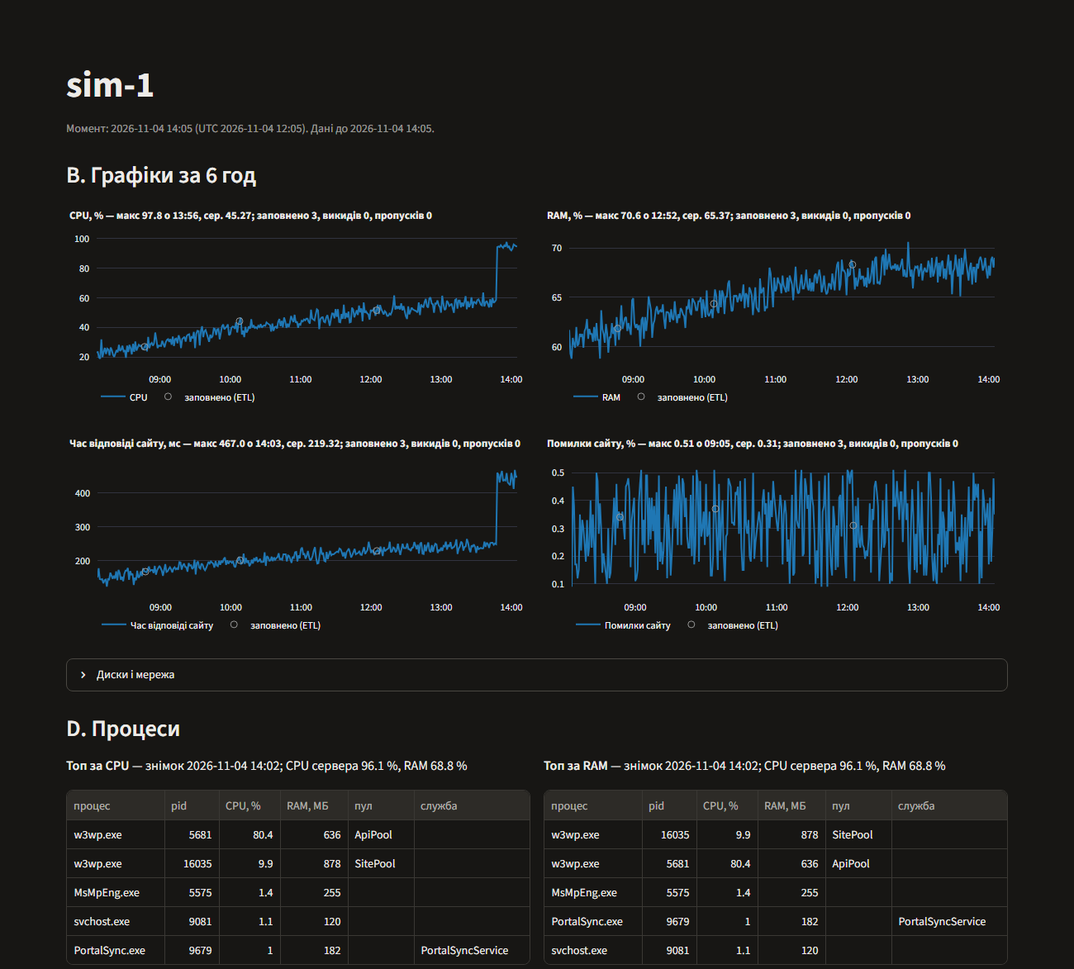
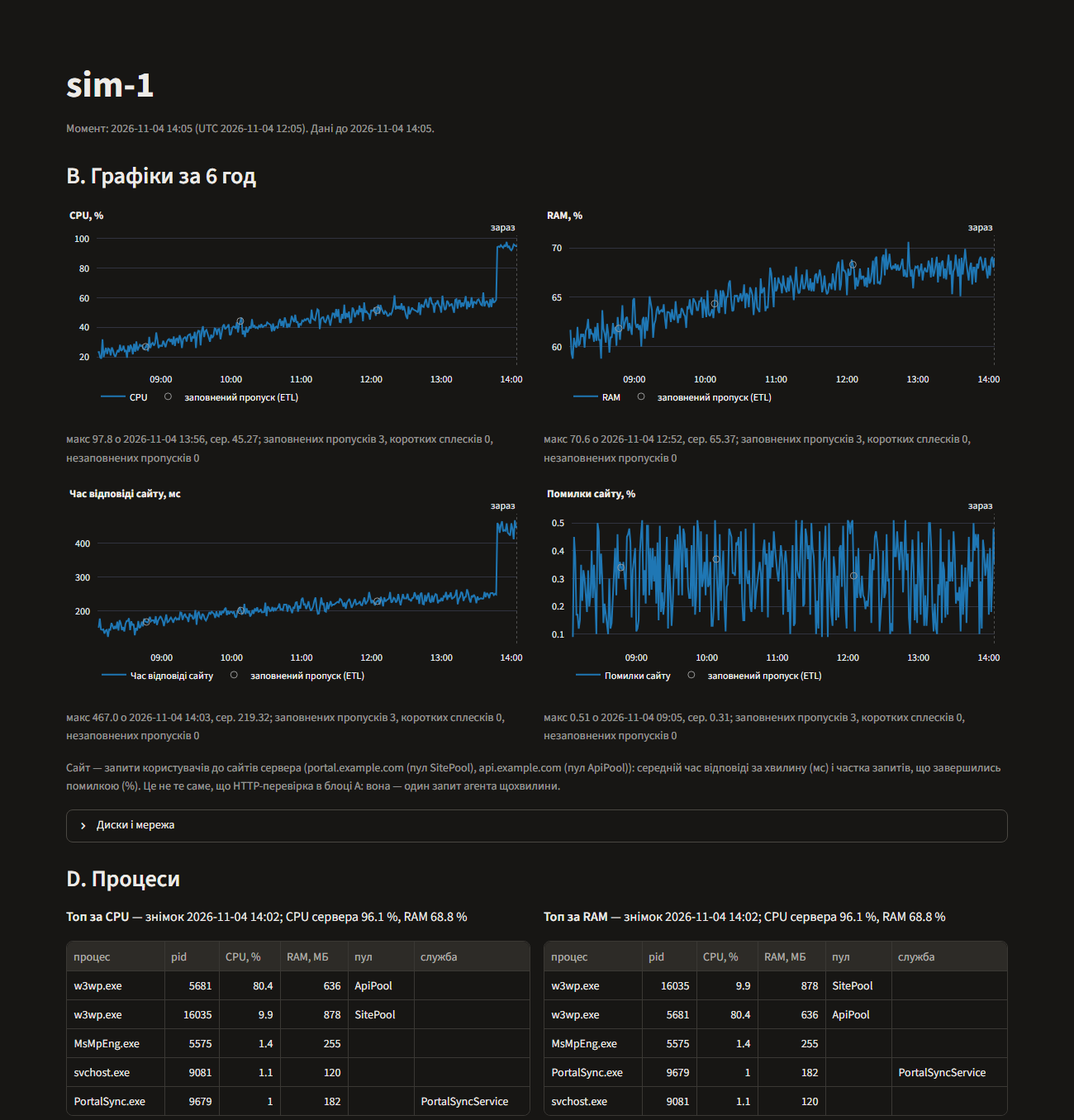
Етап 0 закрито: блок C (факт після «зараз», пояснення «мало даних»), підписи, скриншоти
- core/tools.py: trend.points, trend.min_points, trend.from_reason, history_days
- web/app.py: лінія «насправді» для моменту в історії; тренд обрізано на 100 %;
  при stale прогноз не малюється; звідки прогноз і чому «мало даних»;
  блок E за вибраним вікном; історія = history_days; підписи сайту і перевірок;
  легенди ETL «короткий сплеск», «заповнений пропуск»
- тести: поля прогнозу, лінії графіка, перша година історії (усього 59)
- скриншоти 5 перевірок + після кінця даних + «мало даних» + блок G
- progress.md (відомі проблеми, пропуски), milestones.md (етап 4 — кандидати),
  decisions.md (підсумок етапу 0)

diff --git a/web/app.py b/web/app.py
@@ -24,7 +24,7 @@ from core import tools  # noqa: E402
 
 WINDOWS = {"6 год": 6, "24 год": 24, "7 днів": 168}
 DASH_POINTS = 1500            # точок на графік дашборду (для LLM — 50, за замовчуванням)
-DISK_HISTORY_DAYS = 14        # скільки історії диска показувати біля прогнозу
+DISK_HISTORY_DAYS = 14        # запасне значення, якщо прогноз не повернув history_days (помилка)
 LOCAL_FMT = "%Y-%m-%d %H:%M"
 
 st.set_page_config(page_title="Сервер — асистент чергового", layout="wide")
@@ -211,6 +211,10 @@ with right:
     chk = pd.DataFrame(rows)
     if not chk.empty:
         st.dataframe(red_rows(chk, chk["ok"] != "так"), hide_index=True)
+        st.caption("http — щохвилинний запит агента до сторінки перевірки сайту: код і час відповіді "
+                   "(не пройшла — код ≠ 200 або довше 2 с); адреса в даних не зберігається, лише код. "
+                   "cert — днів до кінця сертифіката сайту; backup — вік останнього успішного бекапу, год; "
+                   "sql_port — чи відкривається порт SQL Server.")
 show_notes(status)
 
 # ---------------------------------------------------------------------------
@@ -243,10 +247,10 @@ def metric_chart(metric: str, title: str, height: int = 260):
                     line=dict(width=2, color="#1f77b4"))
     if r["imputed_points"]:
         fig.add_scatter(x=ts(r["imputed_points"]), y=[p[1] for p in r["imputed_points"]], mode="markers",
-                        name="заповнено (ETL)", marker=dict(size=8, color="#999999", symbol="circle-open"))
+                        name="заповнений пропуск (ETL)", marker=dict(size=8, color="#999999", symbol="circle-open"))
     if r["outlier_points"]:
         fig.add_scatter(x=ts(r["outlier_points"]), y=[p[1] for p in r["outlier_points"]], mode="markers",
-                        name="викид (ETL)", marker=dict(size=9, color="#d62728"))
+                        name="короткий сплеск (позначка ETL)", marker=dict(size=9, color="#d62728"))
     step = f", середнє по {r['step_min']} хв" if r["step_min"] > 1 else ""
     fig.update_layout(title=f"{title}, {r['unit']}{step}",
                       height=height, margin=dict(l=10, r=10, t=40, b=10), hovermode="x unified",
@@ -254,7 +258,8 @@ def metric_chart(metric: str, title: str, height: int = 260):
     st.plotly_chart(fig)
     # статистика — під графіком (у заголовку довгий рядок обрізався)
     st.caption(f"макс {fmt(r['max']['value'])} о {r['max']['ts_local']}, сер. {fmt(r['mean'])}; "
-               f"заповнено {r['imputed']}, викидів {r['outliers']}, пропусків {r['gaps_total']}")
+               f"заповнених пропусків {r['imputed']}, коротких сплесків {r['outliers']}, "
+               f"незаповнених пропусків {r['gaps_total']}")
     show_notes(r)
 
 
@@ -269,6 +274,10 @@ if "app_response_ms" in m:
         metric_chart("app_response_ms", "Час відповіді сайту")
     with c2:
         metric_chart("app_error_pct", "Помилки сайту")
+    sites = ", ".join(f"{x['site']} (пул {x['app_pool']})" for x in status["sites"])
+    st.caption(f"Сайт — запити користувачів до сайтів сервера ({sites}): середній час відповіді "
+               "за хвилину (мс) і частка запитів, що завершились помилкою (%). Це не те саме, що "
+               "HTTP-перевірка в блоці A: вона — один запит агента щохвилини.")
 with st.expander("Диски і мережа", expanded=EXPAND):
     c1, c2 = st.columns(2)
     for i, d in enumerate(status["disks"]):
@@ -291,7 +300,10 @@ drives = [d["drive"] for d in status["disks"]]
 drive_default = drives.index(params["drive"]) if params.get("drive") in drives else 0
 drive = st.radio("Диск", drives, index=drive_default, horizontal=True)
 fc = call("get_disk_forecast", server=server, drive=drive, now=now, with_line=True)
-disk_start = (now_dt - timedelta(days=DISK_HISTORY_DAYS)).strftime(LOCAL_FMT)
+# історія на графіку — рівно стільки, скільки бачить прогноз (history_days з forecast.yaml)
+history_days = fc.get("history_days", DISK_HISTORY_DAYS)
+disk_start = (now_dt - timedelta(days=history_days)).strftime(LOCAL_FMT)
+st.caption(f"Історія на графіку — {history_days} днів: стільки бачить прогноз.")
 hist = call("get_metric_history", server=server, metric=f"disk_used_pct:{drive}", start=disk_start,
             now=now, max_points=DASH_POINTS)
 stale_mark(fc)
@@ -319,19 +331,40 @@ if not show_error(hist):
     fig.add_scatter(x=ts(hist["series"]), y=[p[1] for p in hist["series"]], mode="lines", name="зайнято, %",
                     line=dict(width=2, color="#1f77b4"))
     ys += [p[1] for p in hist["series"]]
-if d and d.get("trend_line"):
+x_ends = [now_dt]
+# Прогноз малюємо лише на свіжих даних; коли stale — на графіку тільки справжні дані,
+# «зараз» і плашка (прогноз на момент останніх даних — лише текстом нижче, з позначкою)
+if d and d.get("trend_line") and not label:
     tl = d["trend_line"]
+    # обрізаємо там, де пряма дійшла до 100 %: далі диск повний, пласка лінія на 100 % нічого не каже
+    full = next((i for i, p in enumerate(tl) if p[1] >= 100), None)
+    if full is not None:
+        tl = tl[:full + 1]
     x = ts(tl)
     fig.add_scatter(x=x + x[::-1], y=[p[3] for p in tl] + [p[2] for p in tl][::-1], fill="toself",
                     fillcolor="rgba(255,127,14,0.15)", line=dict(width=0), name="інтервал 10–90 %",
                     hoverinfo="skip")
-    fig.add_scatter(x=x, y=[p[1] for p in tl], mode="lines", name="тренд" + label,
+    fig.add_scatter(x=x, y=[p[1] for p in tl], mode="lines", name="тренд",
                     line=dict(width=2, color="#ff7f0e", dash="dash"))
     ys += [p[1] for p in tl]
+    x_ends.append(x[-1])
+
+# Що сталося насправді після «зараз» — лише для моменту в історії і лише на дашборді:
+# той самий інструмент з пізнішим now. Функції для LLM, як і раніше, бачать лише дані до «зараз»
+if now is not None and not fc.get("stale"):
+    horizon = (now_dt + timedelta(hours=168)).strftime(LOCAL_FMT)
+    after = call("get_metric_history", server=server, metric=f"disk_used_pct:{drive}", start=now,
+                 end=horizon, now=horizon, max_points=DASH_POINTS)
+    if "error" not in after and after["series"]:
+        fig.add_scatter(x=ts(after["series"]), y=[p[1] for p in after["series"]], mode="lines",
+                        name="насправді (прогноз цього не бачив)", line=dict(width=2, color="#9e9e9e"))
+        ys += [p[1] for p in after["series"]]
+        x_ends.append(ts(after["series"])[-1])
+
 fig.add_hline(y=thr, line=dict(color="#d62728", width=1, dash="dot"),
               annotation_text=f"{thr} %", annotation_position="top left")
 mark_now(fig)
-x_end = max([now_dt] + (ts(d["trend_line"])[-1:] if d and d.get("trend_line") else []))
+x_end = max(x_ends)
 fig.update_xaxes(range=[datetime.strptime(disk_start, LOCAL_FMT), x_end])
 if full_scale or not ys:
     y_range = [0, 101]
@@ -348,6 +381,15 @@ if "error" not in hist:
 
 if d:
     tr, fg, jp = d["trend"], d["fast_growth"], d["jump"]
+    if tr["status"] == "ok" and not label:
+        # звідки прогноз — один рядок під графіком
+        st.caption(f"Прогноз: пряма по погодинних даних від {tr['from_local']} ({tr['from_reason']}), "
+                   f"{tr['points']} точок; історія для пошуку стрибків — {fc['history_days']} днів.")
+    elif tr["status"] == "мало даних" and not label:
+        # чому пунктиру немає: від початку прямої ще замало погодинних точок
+        st.caption(f"Тренд: мало даних — від {tr['from_local']} ({tr['from_reason']}) погодинних точок: "
+                   f"{tr['points']} з потрібних {tr['min_points']}; пунктиру тренду немає. "
+                   "Питання 2 і 3 нижче рахуються.")
 
     def until(h):
         if h is None:
@@ -369,7 +411,8 @@ if d:
                     f"({fmt(tr['in_24h']['low'])}–{fmt(tr['in_24h']['high'])}); "
                     f"+7 днів — {fmt(tr['in_7d']['pct'], ' %')}; **{until(tr['hours_to_threshold'])}**")
     else:
-        st.markdown(f"**1. Тренд:** {tr['status']} (з {tr['from_local']})")
+        st.markdown(f"**1. Тренд:** {tr['status']} (з {tr['from_local']}; погодинних точок: "
+                    f"{tr['points']} з потрібних {tr['min_points']})")
     if fg["status"] == "ok":
         st.markdown(f"**2. Ріст за {fg['window_min']} хв:** {fmt(fg['pct_per_h'], sign=True)} %/год "
                     f"(зазвичай до {fmt(fg['usual_max_pct_per_h'])}, межа {fmt(fg['limit_pct_per_h'])}) — "
@@ -407,8 +450,8 @@ for col, by, title in ((c1, "cpu", "Топ за CPU"), (c2, "ram", "Топ за 
 # E. Теки
 # ---------------------------------------------------------------------------
 
-st.subheader("E. Що росте за 24 год")
-g = call("get_folder_growth", server=server, now=now)
+st.subheader(f"E. Що росте за {win_label}")
+g = call("get_folder_growth", server=server, period_h=window_h, now=now)
 stale_mark(g)
 if not show_error(g):
     labels = [f["path"] for f in g["folders"]] + [f"інше ({dk['drive']})" for dk in g["disks"]]

diff --git a/core/tools.py b/core/tools.py
@@ -677,9 +677,16 @@ def trend_line(tr: dict, now: pd.Timestamp) -> list:
     return out
 
 
-def disk_answer(drive: str, r: dict, now: pd.Timestamp, cfg: dict, with_line: bool) -> dict:
+def disk_answer(drive: str, r: dict, now: pd.Timestamp, cfg: dict, with_line: bool,
+                history_start: pd.Timestamp) -> dict:
     tr, fg, j = r["trend"], r["fast_growth"], r["jump"]
-    trend_out = {"status": tr.get("status"), "from_local": loc(tr.get("start")),
+    # звідки пряма: від останнього різкого падіння (прибирання) або, якщо падінь
+    # не було, від початку історії, яку бере прогноз (history_days)
+    from_reason = ("початок історії (різких падінь не було)" if tr.get("start") == history_start
+                   else "останнє різке падіння")
+    trend_out = {"status": tr.get("status"), "from_local": loc(tr.get("start")), "from_reason": from_reason,
+                 "points": tr.get("points"),       # скільки погодинних точок у прямій
+                 "min_points": cfg["trend"]["min_hours"],   # менше — «мало даних», прямої немає
                  "hours_to_threshold": num(tr.get("hours_to_threshold"), 1)}
     if tr.get("status") == "ok":
         trend_out.update({"pct_per_day": num(tr["speed_pct_day"]), "gb_per_day": num(tr["speed_gb_day"], 1),
@@ -729,7 +736,9 @@ def get_disk_forecast(server: str, drive: str | None = None, now: str | None = N
     Параметри: drive — диск, наприклад "E:" (None — усі диски); now — момент «зараз»
     (None — поточний час); with_line — додати точки прямої тренду для графіка.
     Повертає по кожному диску:
-    - trend — повільний ріст від останнього прибирання: pct_per_day, gb_per_day,
+    - trend — повільний ріст від останнього прибирання (from_local, from_reason; points —
+      скільки погодинних точок у прямій; якщо їх менше за min_points — status «мало даних»,
+      прямої немає): pct_per_day, gb_per_day,
       рівень in_24h і in_7d з інтервалом 10–90 % (low–high), hours_to_threshold
       (годин до порогу; 0 — вже вище; null — не досягне);
     - fast_growth — ріст за останні 90 хв: pct_per_h, звичайний максимум у ці хвилини
@@ -761,9 +770,9 @@ def get_disk_forecast(server: str, drive: str | None = None, now: str | None = N
             if len(used) < 2 or free.empty:
                 out.append({"drive": d, "error": "замало даних для прогнозу"})
                 continue
-            out.append(disk_answer(d, method.predict(used, free, at, cfg), at, cfg, with_line))
+            out.append(disk_answer(d, method.predict(used, free, at, cfg), at, cfg, with_line, used.index[0]))
     result = {"server": server, "now": pair(t), "method": cfg["method"],
-              "threshold_pct": cfg["threshold_pct"], **fresh}
+              "threshold_pct": cfg["threshold_pct"], "history_days": cfg["history_days"], **fresh}
     if fresh["stale"]:
         result["message"] = (f"немає свіжих даних; останні — {fresh['data_until']['ts_local']} "
                              f"({age_text(fresh['data_age_h'])} тому). Прогнозу на «зараз» немає")

diff --git a/tests/test_app.py b/tests/test_app.py
@@ -1,6 +1,8 @@
 """Тести сторінки дашборду (web/app.py) без браузера — через вбудований у Streamlit AppTest.
 Тимчасова база; data/oncall.db не чіпають. Запуск: python -m pytest
 """
+import json
+
 import streamlit as st
 from streamlit.testing.v1 import AppTest
 
@@ -94,6 +96,49 @@ def test_page_edge_cases(tmp_path, monkeypatch):
     assert "{" not in captions.split("За типами:")[1].split(".")[0]
     assert len(at.metric) == 6                             # CPU, RAM, C:, D:, відповідь, помилки
     assert "агент знає лише розмір" not in captions        # постійні примітки — лише для LLM
+
+
+def disk_chart_lines(path, monkeypatch, now: str | None) -> list[str]:
+    """Назви ліній на всіх графіках сторінки для моменту now (None — «Наживо»).
+    «тренд», «інтервал» і «насправді» бувають лише на графіку диска (блок C)."""
+    monkeypatch.setattr(tools, "DB_PATH", path)
+    st.cache_data.clear()
+    at = AppTest.from_file(APP, default_timeout=60)
+    if now:
+        at.query_params["now"] = now
+    at.run()
+    assert not at.exception
+    return [t.get("name") for chart in at.get("plotly_chart") for t in json.loads(chart.proto.spec)["data"]]
+
+
+def test_disk_chart_actual_line(tmp_path, monkeypatch):
+    """Момент в історії — є «насправді» і тренд; «Наживо» — «насправді» немає;
+    момент після кінця даних — немає ні пунктиру тренду, ні «насправді»."""
+    path = tmp_path / "t.db"
+    two_days(path)                                  # дані 05.01 02:00 – 07.01 01:59 (місц.)
+    middle = disk_chart_lines(path, monkeypatch, "2026-01-06 02:00")
+    assert "тренд" in middle and "насправді (прогноз цього не бачив)" in middle
+    live = disk_chart_lines(path, monkeypatch, None)
+    assert "насправді (прогноз цього не бачив)" not in live
+    late = disk_chart_lines(path, monkeypatch, "2026-01-10 01:59")
+    assert not any(n and n.startswith("тренд") for n in late) and "інтервал 10–90 %" not in late
+    assert "насправді (прогноз цього не бачив)" not in late
+
+
+def test_page_first_hour_of_history(tmp_path, monkeypatch):
+    """Перша година історії: блоки C і E не падають; тренд пояснено «мало даних … з потрібних 6»."""
+    path = tmp_path / "t.db"
+    two_days(path, extra_disks=True)
+    monkeypatch.setattr(tools, "DB_PATH", path)
+    st.cache_data.clear()
+    at = AppTest.from_file(APP, default_timeout=60)
+    at.query_params["now"] = "2026-01-05 03:00"         # дані з 02:00 місцевого
+    at.query_params["drive"] = "C:"
+    at.run()
+    assert not at.exception
+    captions = " ".join(c.value for c in at.caption)
+    assert "мало даних" in captions and "з потрібних 6" in captions
+    assert any(s.value.startswith("E. Що росте") for s in at.subheader)
 
 
 def test_page_late_moment_is_marked_stale(tmp_path, monkeypatch):

diff --git a/tests/test_tools.py b/tests/test_tools.py
@@ -284,6 +284,18 @@ def test_disk_forecast_same_as_forecast_module(db):
     assert d["trend"]["hours_to_threshold"] == round(direct["trend"]["hours_to_threshold"], 1)
     assert d["fast_growth"]["unusual"] is False and d["jump"]["found"] is False
     assert len(d["trend_line"]) > 10
+    # звідки прогноз: погодинні точки — ті самі, що в forecast.trend; падінь не було — від початку історії
+    assert d["trend"]["points"] == direct["trend"]["points"] and d["trend"]["points"] >= 47
+    assert d["trend"]["from_reason"].startswith("початок історії")
+    assert r["history_days"] == cfg["history_days"] == 14
+    assert d["trend"]["min_points"] == cfg["trend"]["min_hours"]
+
+
+def test_disk_forecast_too_little_data(db):
+    """Перші години історії: тренд «мало даних», видно скільки точок є і скільки потрібно."""
+    tr = tools.get_disk_forecast("t-1", drive="C:", now=local(180))["disks"][0]["trend"]
+    assert tr["status"] == "мало даних" and tr["points"] < tr["min_points"]
+    assert "pct_per_day" not in tr
 
 
 def test_errors_are_readable(db):

diff --git a/docs/decisions.md b/docs/decisions.md
@@ -440,6 +440,21 @@
   на дашборді в той самий момент. Блок G показує рівно той JSON, який отримає LLM
   (0,7–2,3 КБ на виклик).
 
+## Етап 0 закрито: підсумок (2026-11-20)
+- **Зроблено:** 7 функцій-інструментів (`core/tools.py`) — єдине джерело чисел;
+  сторінка «Сервер» (`web/app.py`, Streamlit + Plotly, лише `127.0.0.1`) без
+  власних SQL; одне правило «дані застаріли»; для моменту в історії — лінія «що
+  сталося насправді» біля прогнозу (лише на дашборді; LLM бачить дані до «зараз»).
+- **Перевірено:** 59 тестів на тимчасових базах (інструменти, сторінка через
+  Streamlit `AppTest`); 5 перевірок на історії + момент після кінця даних —
+  скриншоти в `docs/experiments/dashboard/`; новий момент — 1,5–1,9 с; JSON для
+  LLM — 0,7–2,3 КБ на виклик.
+- **Відомі обмеження** (деталі — `docs/progress.md`): тренд E: sim-2 щодня
+  ~06:00–12:00 «мало даних»; короткий тренд одразу після прибирання; свіжість —
+  за рядом CPU; адреса HTTP-перевірки в даних не зберігається; служба для
+  процесу — лише коли exe належить одній службі; `get_status` для всіх серверів
+  росте з кількістю серверів (~3,5 КБ на два).
+
 ## Одне правило «дані застаріли» (2026-11-20)
 - **Обрали:** кожен інструмент повертає `data_until`, `data_age_h` і `stale`
   (зараз − останні дані > 10 хв), а коли stale — ще `stale_note` словами.

diff --git a/docs/milestones.md b/docs/milestones.md
@@ -219,6 +219,18 @@ Chronos-2, Prophet — пізніше, по одному, якщо буде ча
 
 Аналізатор, правила, алерти, Groq, порівняння методів — пізніше, окремо.
 
+### Етап 4. Покращення прогнозу диска (зміст етапу — пізніше)
+Кандидати на виправлення. Кожне — з повторним прогоном стенду 2.2b
+(`python -m core.forecast_bench --run`, нове зерно) і порівнянням до / після
+(вчасно, хибні тривоги, похибка моменту 90 %, MAE) у звіті.
+- **Регулярне падіння не починає тренд заново.** Зараз будь-яке різке падіння
+  вважається прибиранням: на E: sim-2 щоденне видалення старого бекапу о 06:00
+  обнуляє тренд, і до ~12:00 — «мало даних». Варіант: падіння, що регулярно
+  йде за регулярним стрибком (видалення того, що регулярно з'являється), не
+  починає пряму заново — як метод уже не ламає тренд на регулярних стрибках.
+- **Короткий тренд після прибирання** (sim-1 D: 04.11 14:05 — −1,64 %/добу з
+  6 год даних → «+7 днів 24 %»): мінімальне вікно або попередній відрізок.
+
 ---
 
 ## Старий план, кроки від 2.3 (переглядається)
